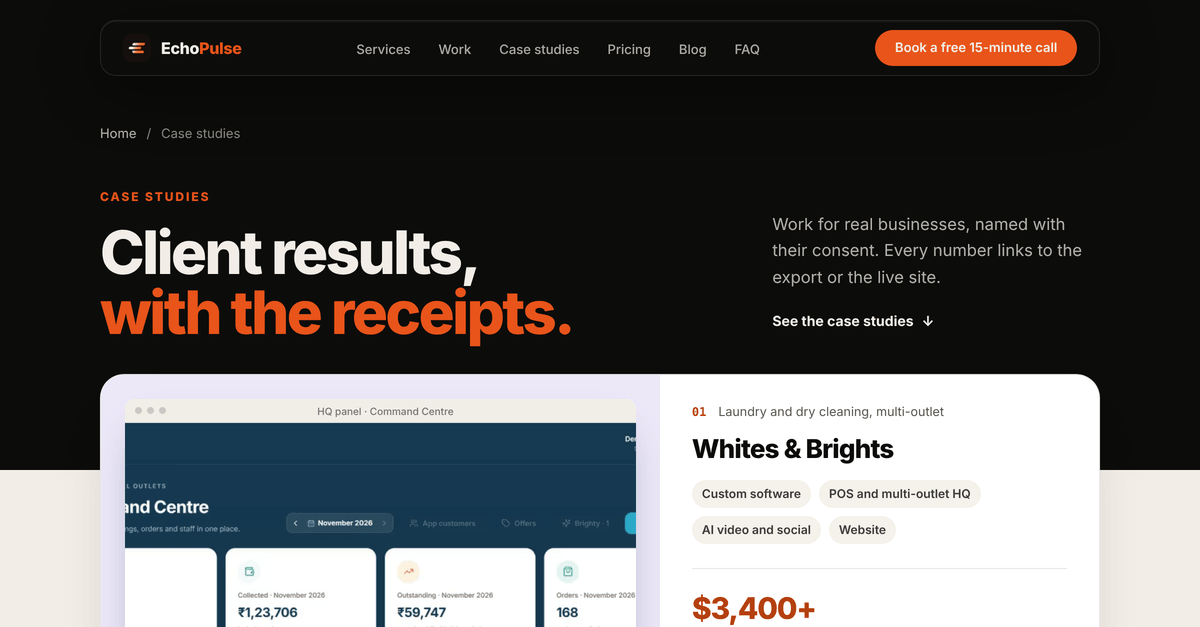
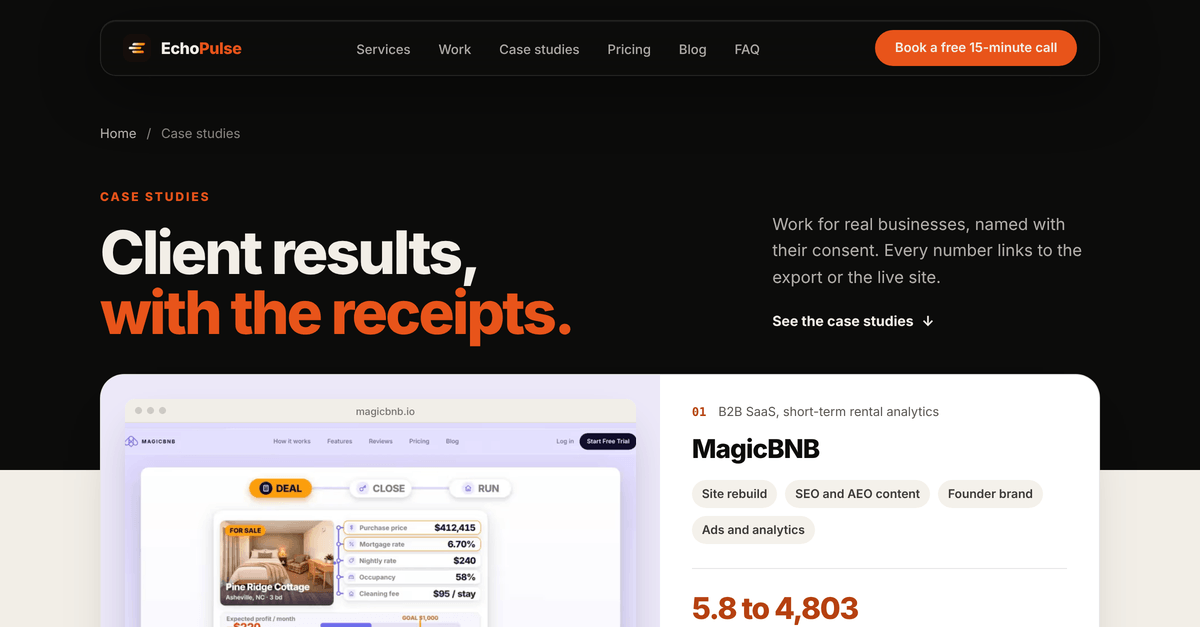
Case studies: MagicBNB first (full-width card), then Whites & Brights, the app, Working With God, founder story; refresh the page's link preview
Claude-Session: https://claude.ai/code/session_01Qz8DN2rpKWMigkZSWL7YHW

Changed region(s): [[0.0925, 0.6364, 0.8633, 1.0], [0.5858, 0.9394, 0.7092, 1.0], [0.5858, 0.6364, 0.8017, 0.6667]]

diff --git a/lib/caseStudyData.ts b/lib/caseStudyData.ts
@@ -3419,7 +3419,7 @@ const whitesBrightsApp: CaseStudy = {
   },
 };
 
-export const caseStudies: CaseStudy[] = [whitesBrights, whitesBrightsApp, workingWithGod, magicbnb, founderStory];
+export const caseStudies: CaseStudy[] = [magicbnb, whitesBrights, whitesBrightsApp, workingWithGod, founderStory];
 
 const SITE_ORIGIN = 'https://echopulse.media';
 const MONTH_NAMES = [
